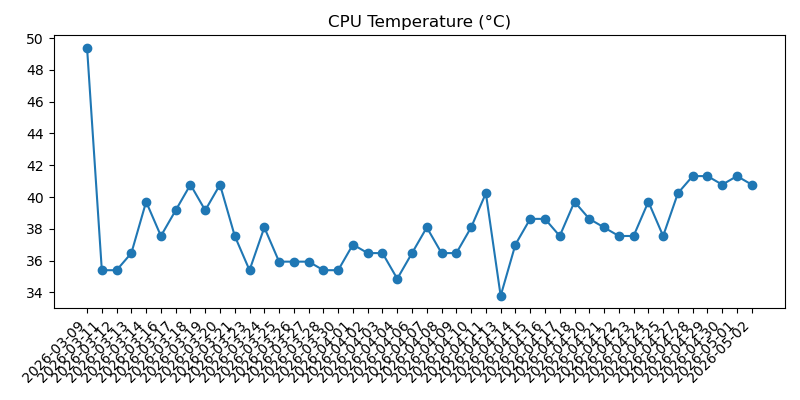
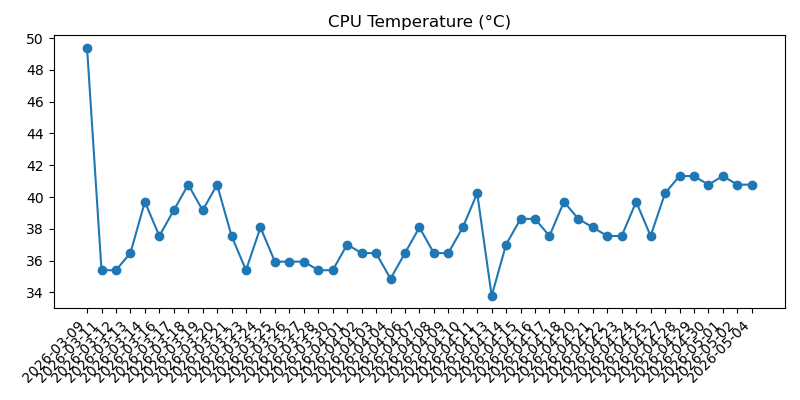
Record daily machine check

Changed region(s): [[0.0312, 0.78, 0.9375, 0.96], [0.125, 0.42, 0.9375, 0.75]]

diff --git a/2026-05.md b/2026-05.md
@@ -68,3 +68,37 @@
 - Overall: Warning
 - Warning: Power issue detected: Undervoltage has occurred; Throttling has occurred
 
+## 2026-05-04 12:38:54
+
+### Machine
+- Uptime: up 1 week, 6 days, 14 hours, 24 minutes
+- CPU load (1m, 5m, 15m): 0.00, 0.00, 0.00
+- RAM used: 169 MB / 921 MB (18.4%)
+- Disk used (/): 3.5 GB / 28.8 GB (12.2%)
+- Free disk space (/): 24.1 GB
+- CPU temp: 40.8°C
+- Voltage / throttling: Undervoltage has occurred; Throttling has occurred
+
+### Reachability
+- Internet check (1.1.1.1): Reachable (4.6 ms)
+
+### Weather
+- Madrid:
+  - Condition: Intervalos nubosos
+  - Max temp: 19°C
+  - Min temp: 10°C
+  - Feels like: 16°C
+  - Chance of rain: 80%
+  - Warnings: None reported
+- Barcelona:
+  - Condition: Cubierto con tormenta
+  - Max temp: 22°C
+  - Min temp: 14°C
+  - Feels like: 20°C
+  - Chance of rain: 100%
+  - Warnings: None reported
+
+### Health
+- Overall: Warning
+- Warning: Power issue detected: Undervoltage has occurred; Throttling has occurred
+
